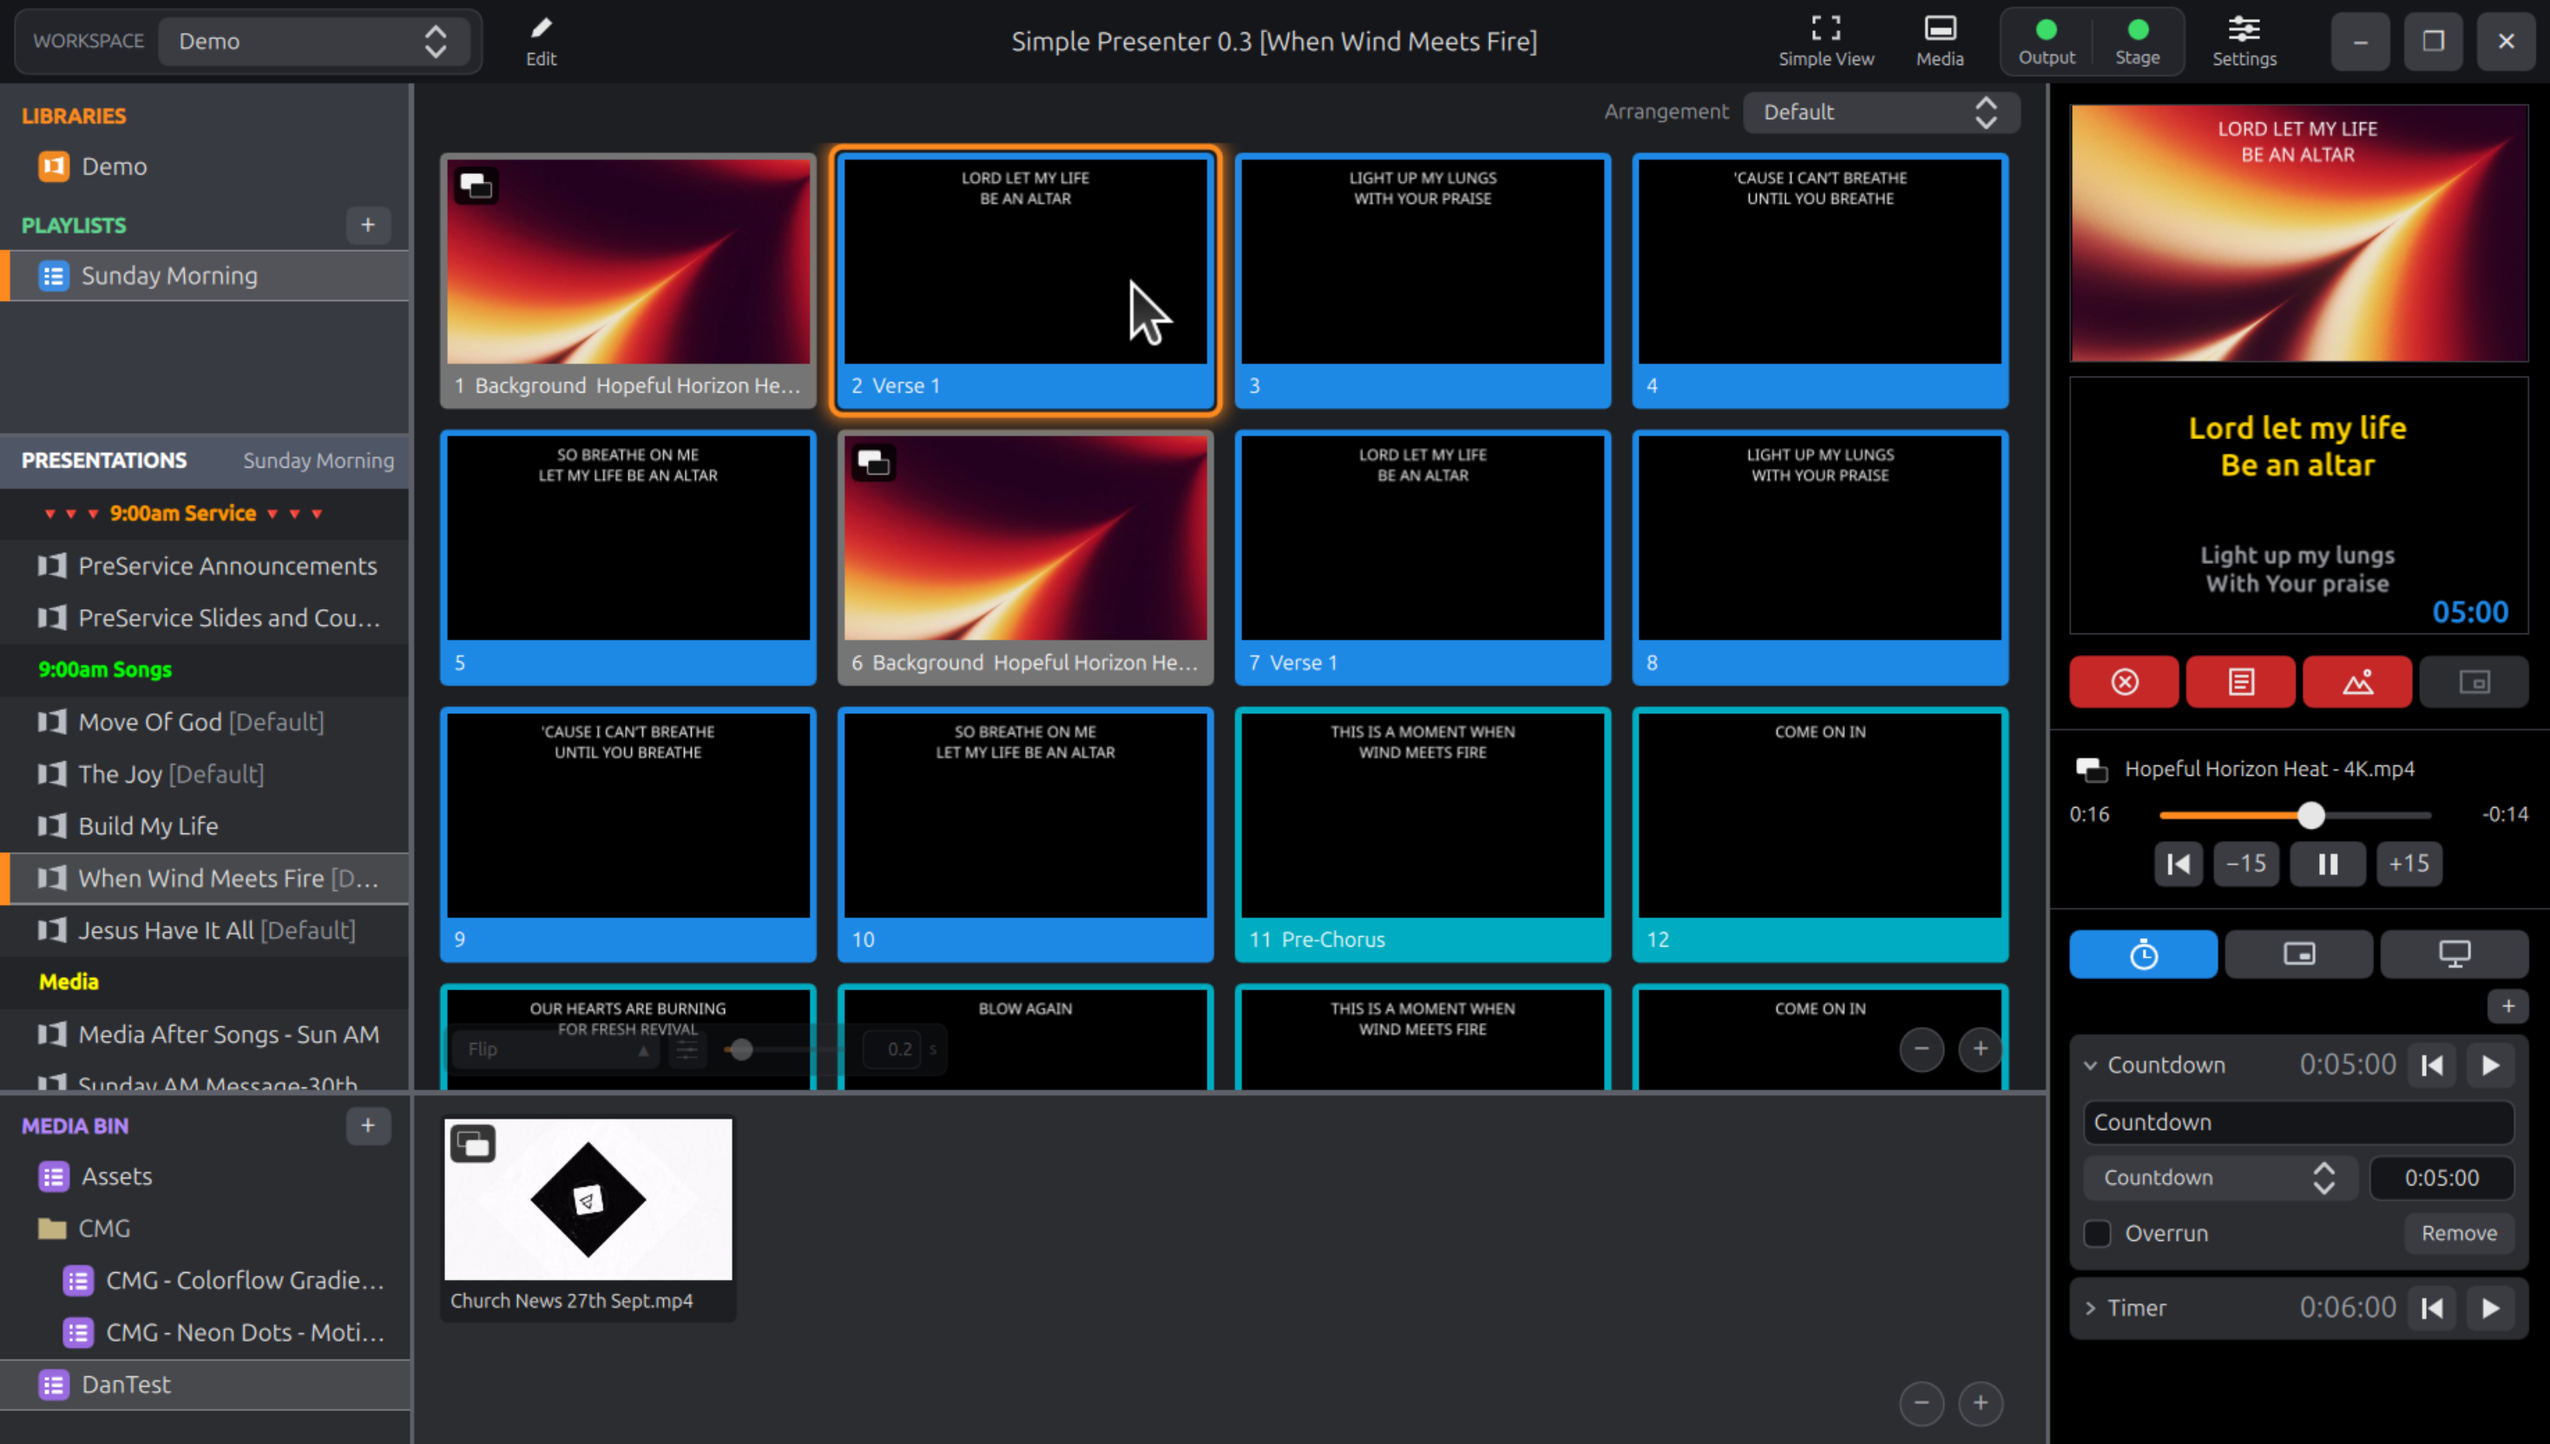
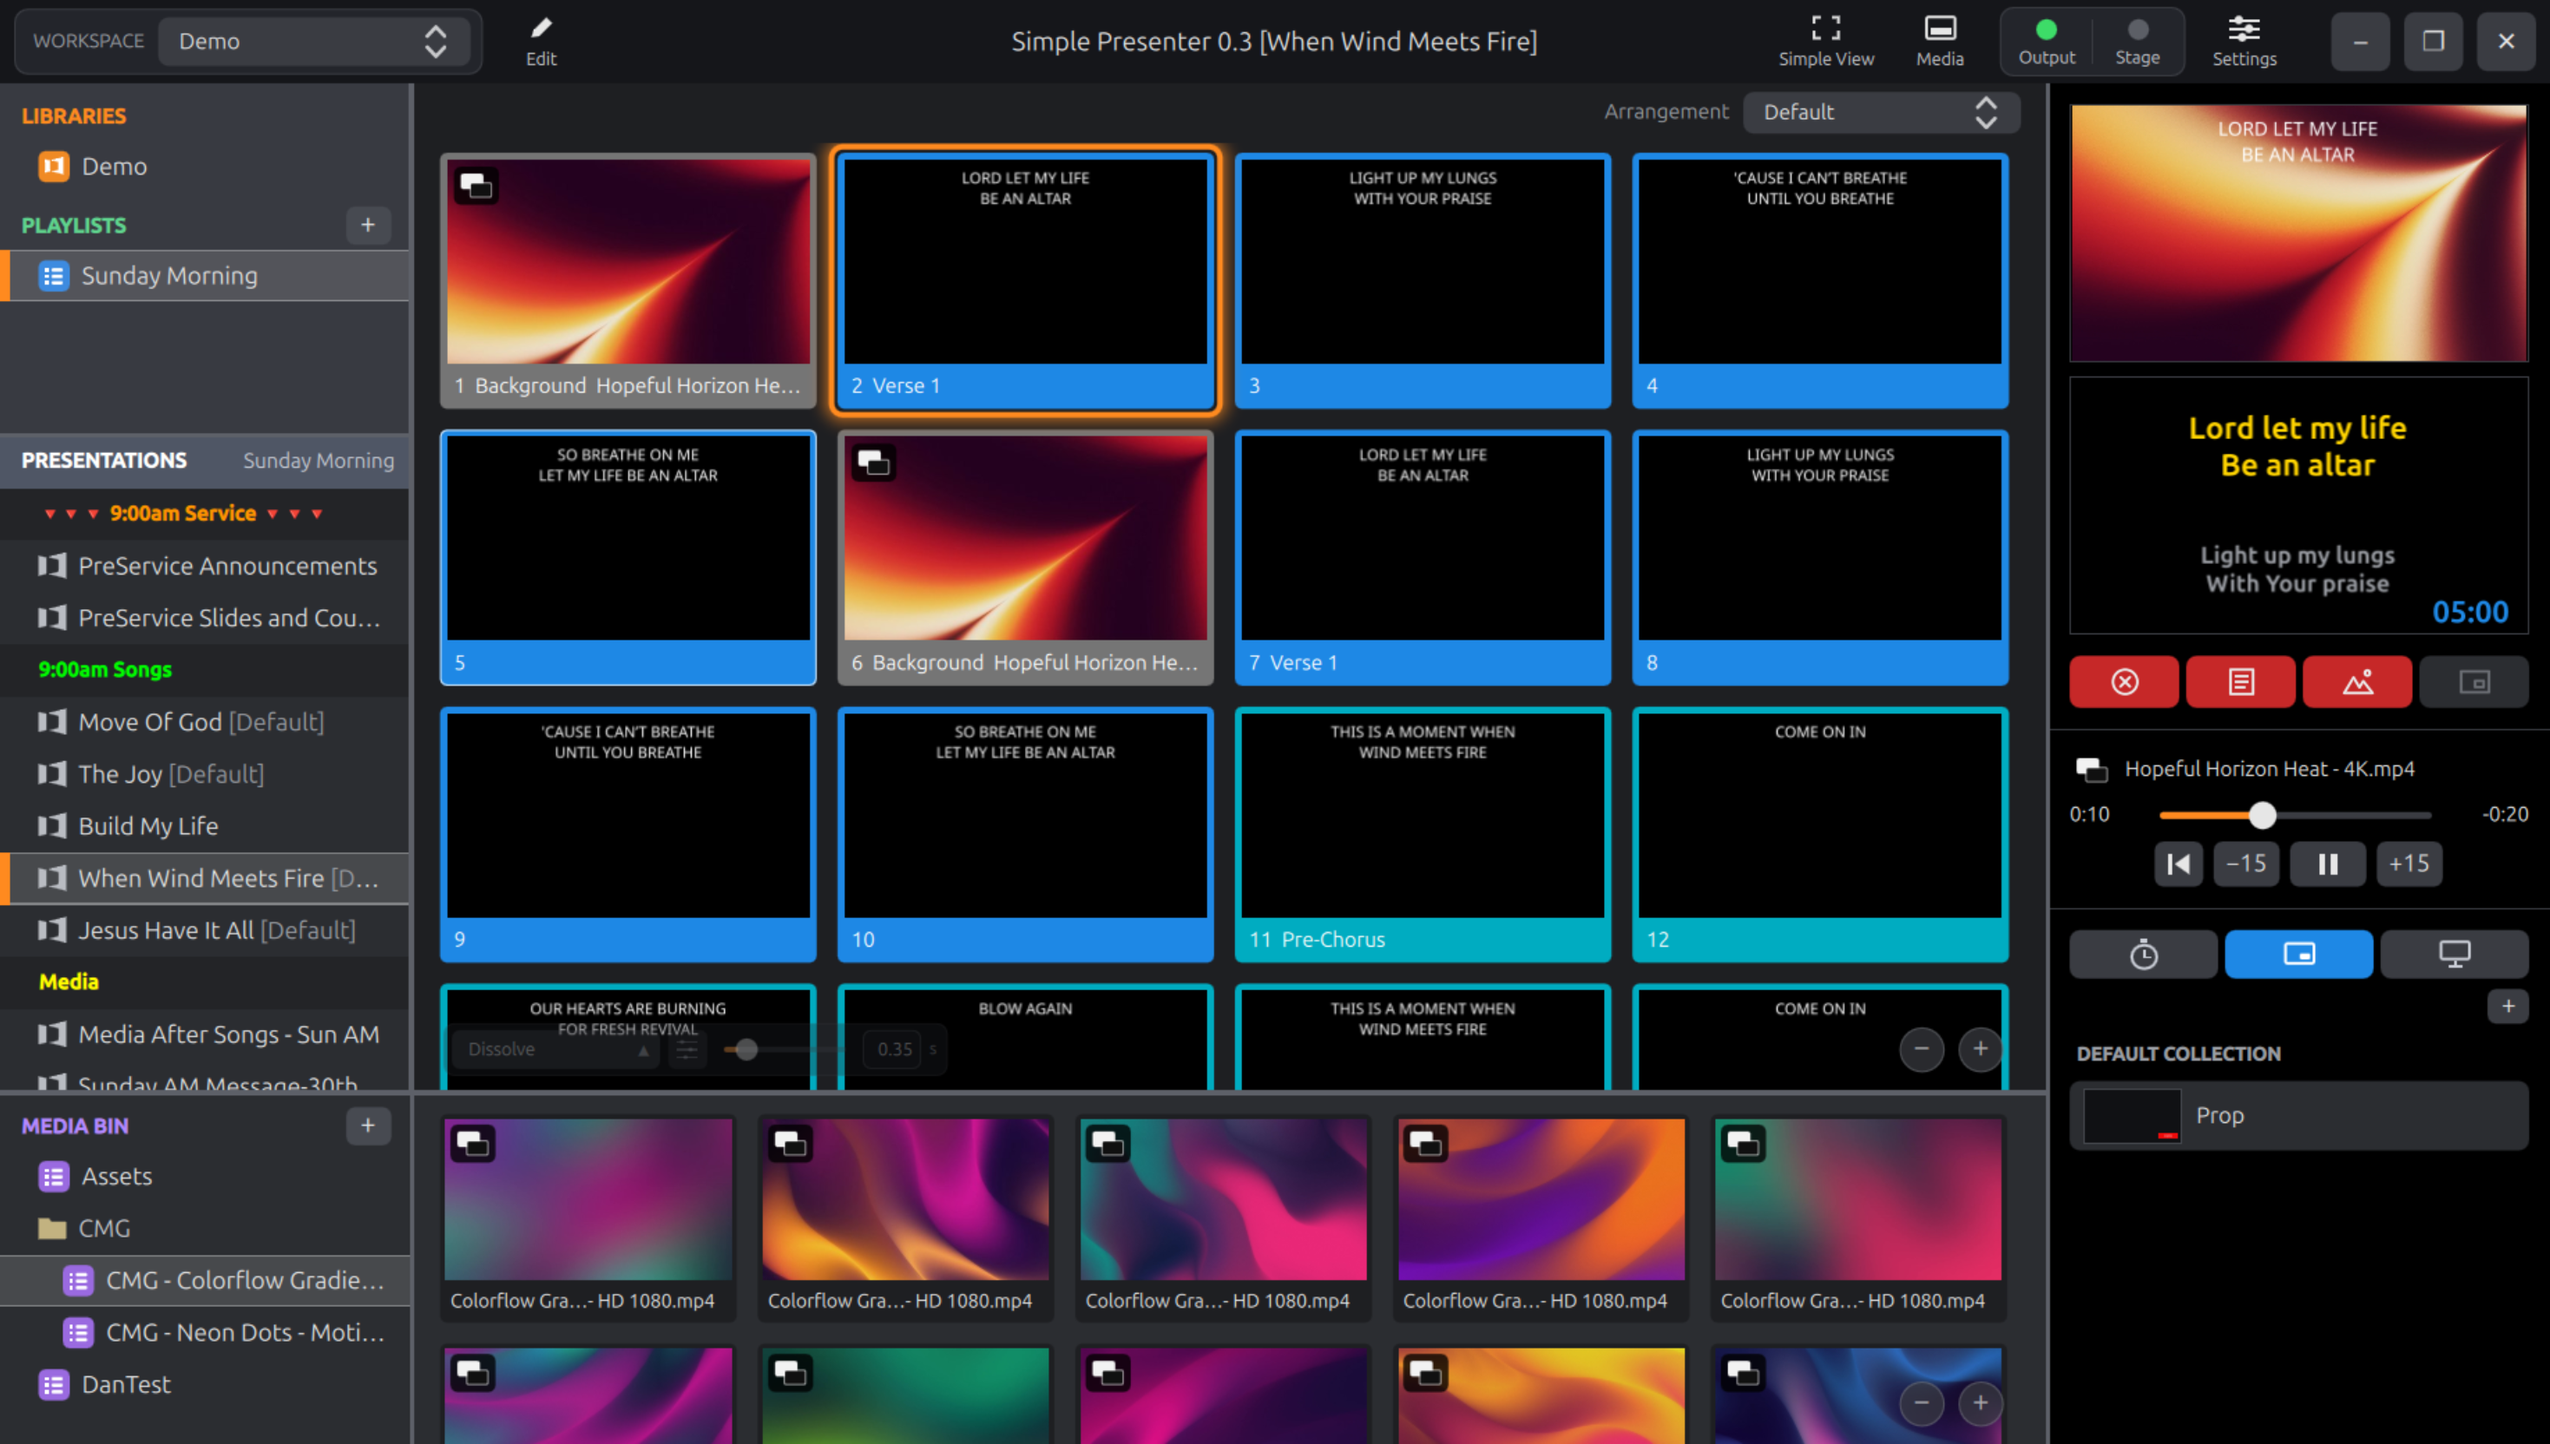
Update the README screenshot
The window as it is in version 0.3, this time with the media bin full of
thumbnails and the show controls on their tab of props. The description
of the picture follows it.

diff --git a/README.md b/README.md
@@ -1,6 +1,6 @@
 # Simple Presenter
 
-![The Simple Presenter operator window: a toolbar across the top, with the workspace picker and Edit at its left and the buttons for Simple View, the media bin, the output and stage windows and the settings at its right; libraries and playlists at the top left with the selected playlist's presentations below them; a grid of slide thumbnails framed in their group colours, the live one ringed in orange, with the media bin under it; and down the right the output and stage previews, the clear buttons, the transport for the video that is playing and the timers](docs/screenshot.png)
+![The Simple Presenter operator window: a toolbar across the top, with the workspace picker and Edit at its left and the buttons for Simple View, the media bin, the output and stage windows and the settings at its right; libraries and playlists at the top left with the selected playlist's presentations below them; a grid of slide thumbnails framed in their group colours, the live one ringed in orange, with the media bin and its thumbnails under it; and down the right the output and stage previews, the clear buttons, the transport for the video that is playing and the show controls, on their tab of props](docs/screenshot.png)
 
 > [!WARNING]
 > **This is a personal experiment, not a product.**
